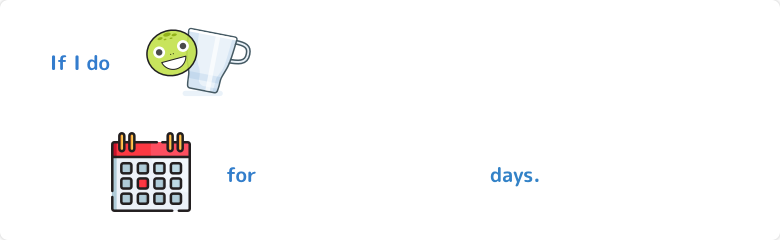
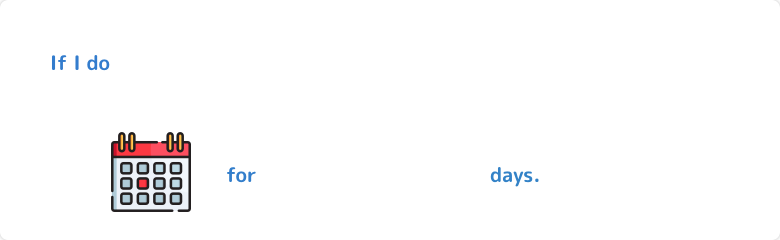
calculator modify

Changed region(s): [[0.1846, 0.1167, 0.3385, 0.4083]]

diff --git a/src/components/calculator.js b/src/components/calculator.js
@@ -20,7 +20,9 @@ const results = (<div id="container_2">
 const reset = (<div><img id="btn_reset_cover" src={require('../static/calculator_element/btn_reset.png')}/></div>);
 
 class Calculator extends Component {
-  state = { showResults: false,showReset: false};
+  state = { showResults: false,
+    showReset: false
+  };
   
   onClickHandler = ()=>{
     this.setState(prev => ({showResults: true,showReset: true}));
@@ -62,6 +64,46 @@ class Calculator extends Component {
     document.getElementById("show2nd").innerHTML = "";
   }
 
+  onChangeHandler(e)
+  {
+    function show1()
+    {
+      document.getElementById("happy_01").style.visibility= "visible";
+      document.getElementById("happy_02").style.visibility= "hidden";
+      document.getElementById("happy_03").style.visibility= "hidden";
+    }
+
+    function show2()
+    {
+      document.getElementById("happy_01").style.visibility= "hidden";
+      document.getElementById("happy_02").style.visibility= "visible";
+      document.getElementById("happy_03").style.visibility= "hidden";
+    }
+
+    function show3()
+    {
+      document.getElementById("happy_01").style.visibility= "hidden";
+      document.getElementById("happy_02").style.visibility= "hidden";
+      document.getElementById("happy_03").style.visibility= "visible";
+    }
+
+    if(e.target.value==1)
+    {
+      show1();
+    }
+
+    if(e.target.value==2)
+    {
+      show2();
+    }
+
+    if(e.target.value==3)
+    {
+      show3();
+    }
+    
+  }
+
   render() {
     return (
         <body>
@@ -73,21 +115,41 @@ class Calculator extends Component {
           <img id="background" src={require('../static/calculator_element/Calculator_background.png')}/>
           <div id="container_1">
             <img id="card_01" src={require('../static/calculator_element/card_01.png')} />
+            <img id="happy_01" src={require('../static/calculator_element/Story1_Habit1_happy_1.png')}/>
+            <img id="happy_02" src={require('../static/calculator_element/Story1_Habit2_happy_1.png')}/>
+            <img id="happy_03" src={require('../static/calculator_element/Story1_Habit3_happy_1.png')}/>
 
             <div id="slh">
-              <select id="selectHabit">
-                <option value="1">Bring your own bag for shopping</option>
-                <option value="2">Bring your own cup for drinking</option>
+              <select id="selectHabit" value={this.state.value} onChange={this.onChangeHandler}>
+                <option value="1" >No single use plastic straws</option>
+                <option value="2" >Bring your own bag for shopping</option>
+                <option value="3" >Bring your own bottles and cups</option>
               </select>
             </div>
 
             <div id="sld">
-              <select id="selectDay">
+              <select id="selectDay" size="5">
                 <option value="1">1</option>
                 <option value="2">2</option>
                 <option value="3">3</option>
                 <option value="4">4</option>
                 <option value="5">5</option>
+                <option value="1">6</option>
+                <option value="2">7</option>
+                <option value="3">8</option>
+                <option value="4">9</option>
+                <option value="5">10</option>
+                <option value="1">11</option>
+                <option value="2">12</option>
+                <option value="3">13</option>
+                <option value="4">14</option>
+                <option value="5">15</option>
+                <option value="1">16</option>
+                <option value="2">17</option>
+                <option value="3">18</option>
+                <option value="4">19</option>
+                <option value="5">20</option>
+                <option value="5">21</option>
               </select>
             </div>
             

diff --git a/src/calculator.css b/src/calculator.css
@@ -1,10 +1,10 @@
 #title{
-    color:rgb(0, 119, 255);
-    font-size: large;
+    color:#43a3f2;
+    font-size: 23px;
     /* font-family: Cambria, Cochin, Georgia, Times, 'Times New Roman', serif; */
     position: fixed;
     left:644px;
-    top: 75px;
+    top: 80px;
     z-index: 1;
   }
   
@@ -247,4 +247,43 @@
     animation: smooth 2s ease-in;
   }
   
+  #happy_01{
+    z-index: 1;
+    position: fixed;
+    left: 553px;
+    top: 131px;
+    width: 70px;
+    height:70px;
+  }
+  
+  #happy_02{
+    z-index: 1;
+    position: fixed;
+    left: 553px;
+    top: 131px;
+    width: 70px;
+    height:70px;
+    visibility: hidden;
+  }
+  
+  #happy_03{
+    z-index: 1;
+    position: fixed;
+    left: 553px;
+    top: 131px;
+    width: 70px;
+    height:70px;
+    visibility: hidden;
+  }
+
+  #selectDay {
+    position: fixed;
+    left: 696px;
+    top: 240px;
+    border: 4px solid;
+    height:25px;
+    line-height:30px;
+    font-weight:bold;
+    border-radius: 8px;
+    }
   

diff --git a/src/containers/quiz.js b/src/containers/quiz.js
@@ -92,7 +92,7 @@ class Quiz extends Component {
 
         return (
             <div>
-                <h2 className="text-white">Do you think the image at the bottom is a good habit that can help the turtle?</h2>
+                <h3 className="text-white">Do you think the image at the bottom is a good habit that can help the turtle?</h3>
                 <QuizTargetComponent>
                     <QuizTarget
                         optionVal="yes"
